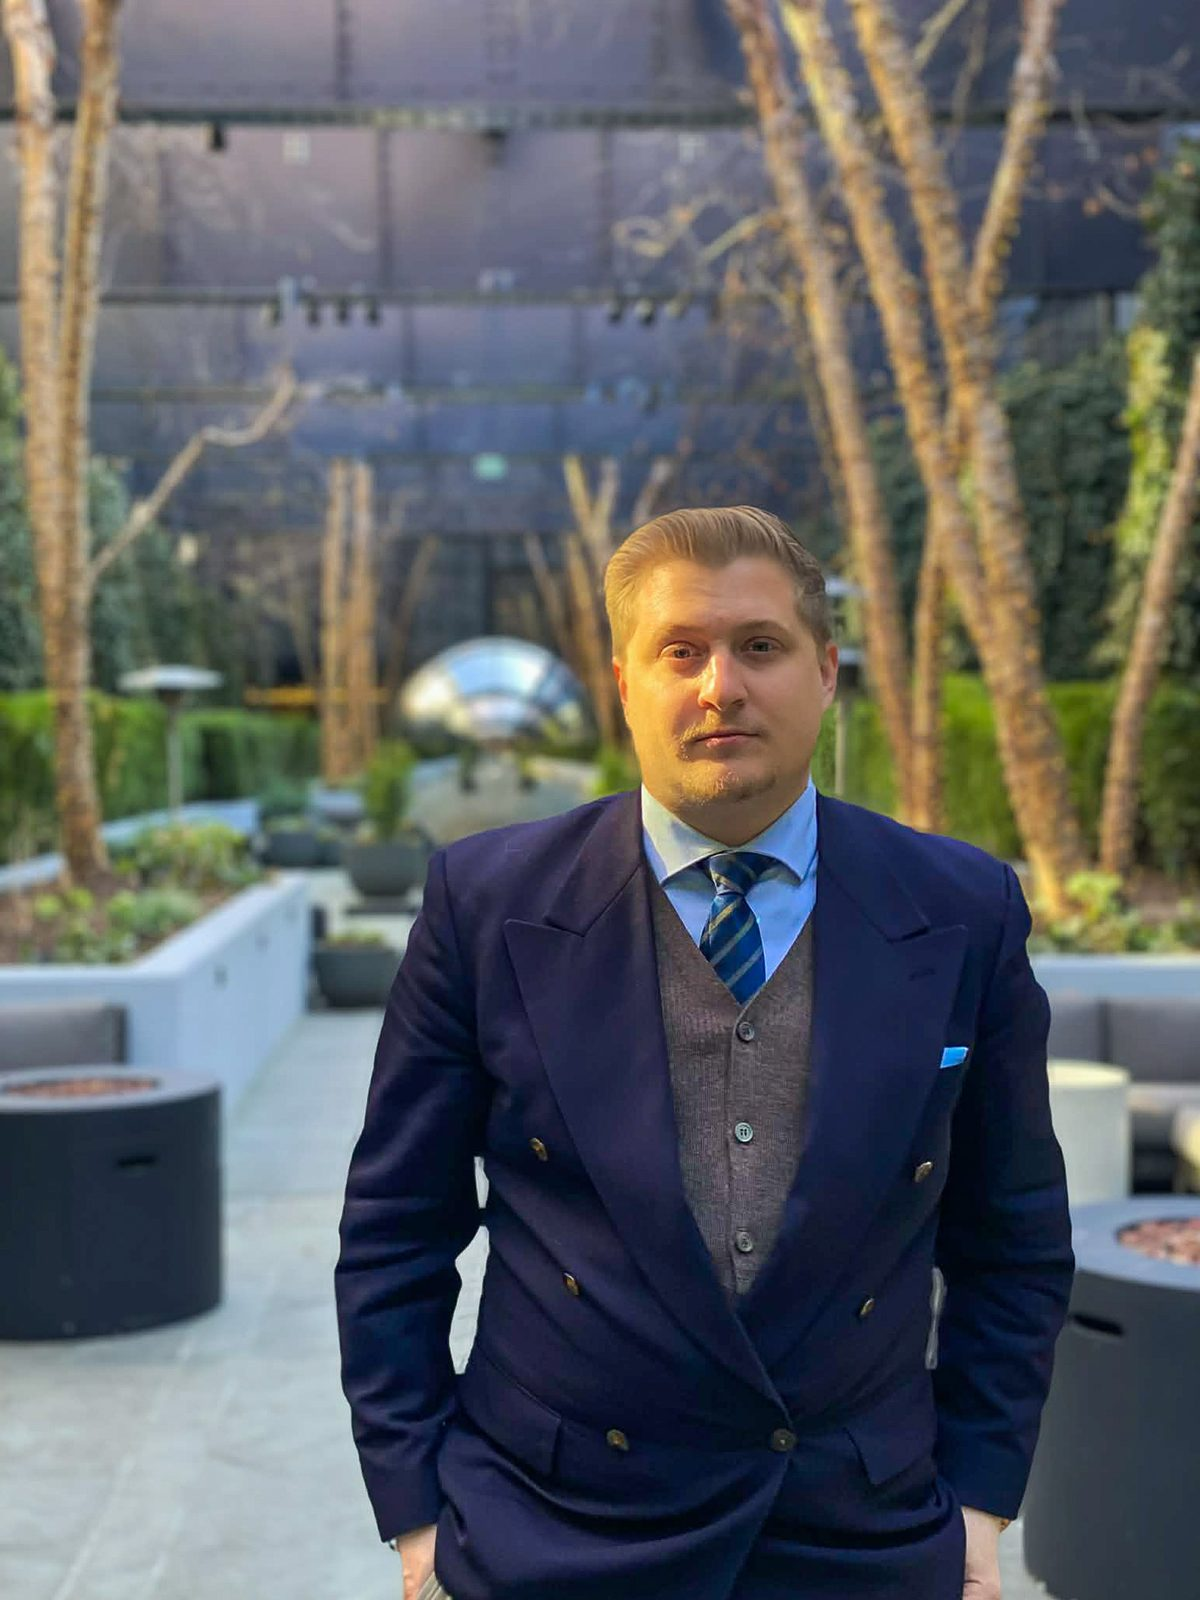
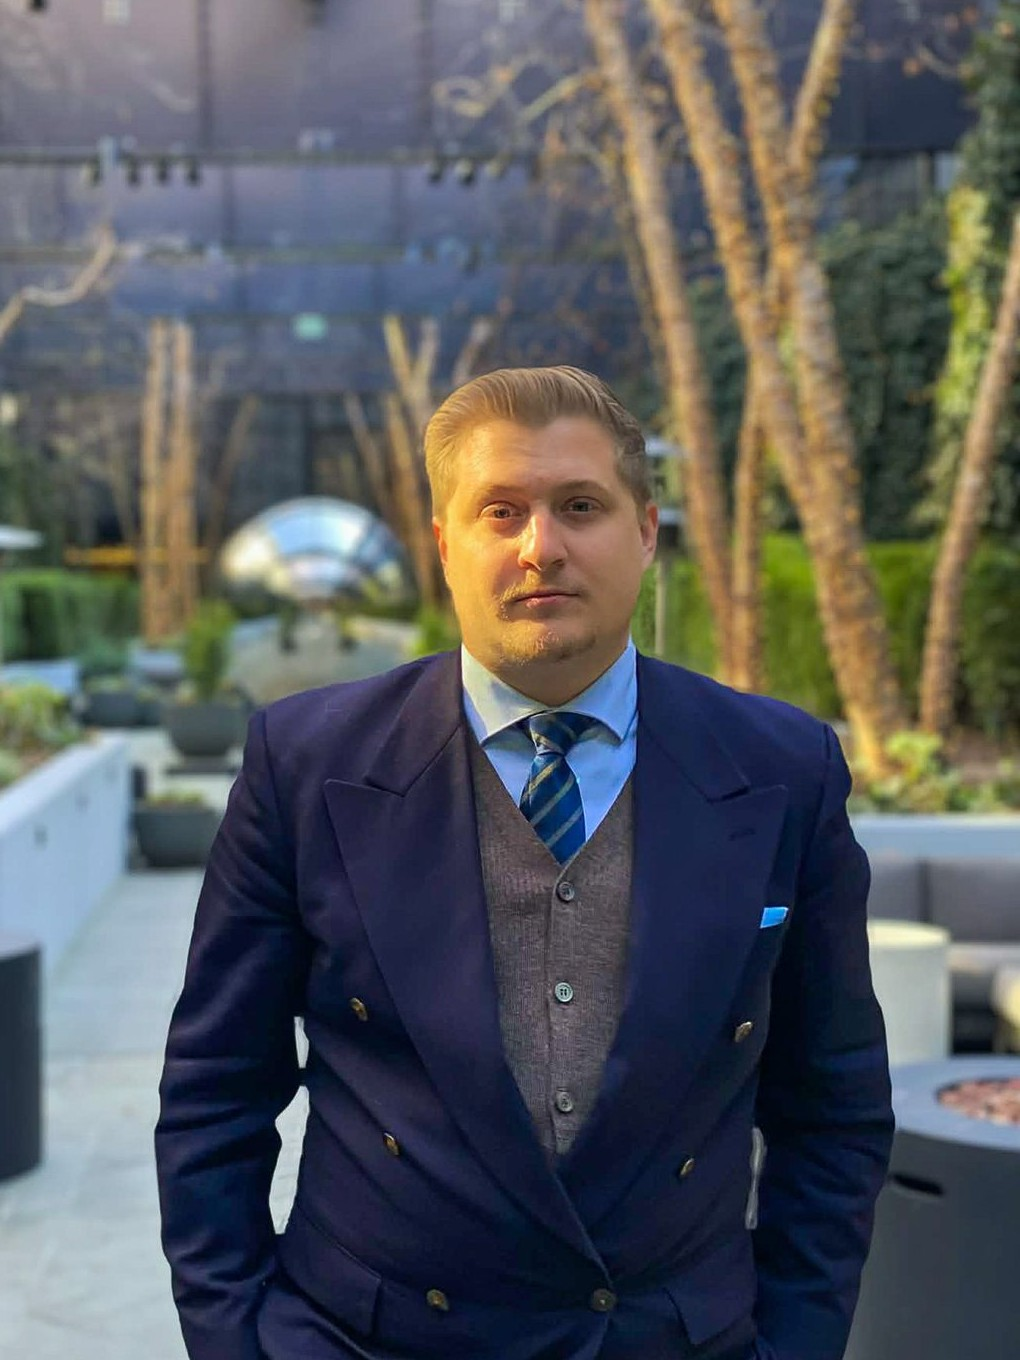
Dispatches read from tr-archive.json; archive script retries via r.jina.ai; About photo zoomed in
rss2json now sits behind a Cloudflare challenge, so the homepage feed
fell back to the plain link. The archive workflow had failed daily since
August because Substack blocks GitHub runners.

Claude-Session: https://claude.ai/code/session_01EKpusVqUuYe8LVjzqWMAQ1

diff --git a/about.html b/about.html
@@ -16,7 +16,7 @@
     <meta name="description" content="Andrew Likoudis is a Catholic scholar, editor, and consultant working in ressourcement theology, ecumenism, and Christian unity.">
     <meta name="keywords" content="Andrew Likoudis, Catholic scholar, Catholic editor, Faith in Crisis, Likoudis Legacy Foundation, ecumenism, Catholic consulting, Catholic writer">
     <meta name="viewport" content="width=device-width, initial-scale=1.0">
-    <title>About — Andrew Likoudis</title><link rel="preload" as="image" href="about-photo.jpg">
+    <title>About — Andrew Likoudis</title><link rel="preload" as="image" href="about-photo.jpg?v=2">
     <link href="https://fonts.googleapis.com/css2?family=Cormorant+Garamond:ital,wght@0,400;0,500;0,600;0,700;1,400;1,500&family=Libre+Baskerville:ital,wght@0,400;0,700;1,400&family=Lato:wght@300;400;500;600&display=swap" rel="stylesheet">
     <link rel="stylesheet" href="styles.css">
     <link rel="canonical" href="https://andrewlikoudis.com/about" />
@@ -56,7 +56,7 @@
     <!-- HOME -->
     <div id="page-about" class="page active">
         <section class="page-hero" style="background:linear-gradient(160deg,var(--ivory) 0%,#EDE4D5 60%,#E8DDD0 100%);padding-bottom:2rem"><div class="page-hero-content"><h1 class="section-title">Andrew Robert Likoudis</h1><p class="hero-greek">Ανδρέας Ροβέρτος Λυκούδης</p><div class="divider"></div><p style="font-family:'Lato',sans-serif;font-size:.7rem;letter-spacing:.18em;text-transform:uppercase;color:var(--text-light);text-align:center;margin-top:1rem;opacity:.7">Strategy · Editorial<br> Research · Communications</p></div></section>
-        <section style="padding:3.5rem 1.5rem"><div class="section-container"><div class="about-grid"><div style="text-align:center"><img decoding="async" src="about-photo.jpg" alt="Andrew Likoudis" class="about-image img-frame" loading="lazy"><p style="font-family:'Cormorant Garamond',serif;font-size:1rem;font-style:italic;color:var(--text-light);margin-top:.75rem">Catholic Scholar &amp; Consultant</p>
+        <section style="padding:3.5rem 1.5rem"><div class="section-container"><div class="about-grid"><div style="text-align:center"><img decoding="async" src="about-photo.jpg?v=2" alt="Andrew Likoudis" class="about-image img-frame" loading="lazy"><p style="font-family:'Cormorant Garamond',serif;font-size:1rem;font-style:italic;color:var(--text-light);margin-top:.75rem">Catholic Scholar &amp; Consultant</p>
 <a href="https://traditionandrenewal.substack.com" target="_blank" style="display:inline-block;margin-top:.6rem;font-family:'Lato',sans-serif;font-size:.75rem;color:var(--burgundy);text-decoration:none;letter-spacing:.03em;border:1px solid var(--burgundy);padding:.3rem .8rem;border-radius:3px;transition:all .2s" onmouseover="this.style.background='var(--burgundy)';this.style.color='#fff'" onmouseout="this.style.background='transparent';this.style.color='var(--burgundy)'">Follow My Writing →</a></div><div class="about-text"><div id="about-bio-preview" style="position:relative"><p><strong>Andrew Likoudis</strong> is a Catholic scholar, editor, and consultant whose interdisciplinary work spans ecclesiology, ecumenism, liturgy, and Catholic public life. He serves as Digital Editor of <em>Where Peter Is</em>. His research and writing address the intersection of tradition and reform in the contemporary Church.</p><p>His major scholarly project is <em>Faith in Crisis: Critical Dialogues in Catholic Traditionalism, Church Authority, and Reform</em>—a 40-chapter volume he organized and edited, coordinating 30+ contributors across three continents, with a foreword by Rocco Buttiglione. The work features chapters by <strong>Robert Cardinal Sarah</strong>, Mike Aquilina, Jimmy Akin, Timothy O'Malley, Rafael Luciani, and other leading theologians, with endorsements from Odilo Scherer, Cardinal Archbishop of São Paulo, Brazil, and Rodrigo Guerra, Secretary of the Pontifical Commission for Latin America. It carries an <strong>imprimatur from Archbishop William E. Lori</strong>. The book has been featured at <em>Where Peter Is</em>, Catholic Culture, and the Word on Fire Institute's journal <em>Evangelization &amp; Culture</em>, which praised it as &ldquo;an impressive labor of love.&rdquo;</p><p>He is also the author of <em>To His Face: Indefectibility and the Problem of Dissent</em> (En Route Books, 2026), with a foreword by Robert Fastiggi and an afterword by Emmett O'Regan. In all he has authored, edited, or compiled twelve volumes on Catholic ecclesiology and the papacy.</p><div id="about-bio-fade" style="position:absolute;bottom:0;left:0;right:0;height:80px;background:linear-gradient(to bottom,transparent,#F5F0E8);pointer-events:none"></div></div><div id="about-bio-full" style="display:none"><p>His recent editorial work includes the fiftieth-anniversary edition of Yves Congar's <em>Challenge to the Church: The Case of Archbishop Lefebvre</em> (En Route Books, 2026), which he edited and introduced, adding a foreword by Larry Chapp and an afterword by Andrew Mioni to Paul Inwood's 1977 translation&mdash;Congar's answer to the Lefebvre crisis, published on July 1, 2026, the day &Eacute;c&ocirc;ne proceeded to a second round of illicit episcopal consecrations.</p><p>He also prepared the third edition of James Likoudis's <em>Ending the Byzantine Greek Schism</em> (Emmaus Road / St. Paul Center, 2026), with a foreword by Scott Hahn&mdash;the first book of his grandfather's trilogy on Catholic-Orthodox reunion, now substantially revised and expanded.</p><p>As founder and chairman of the Likoudis Legacy Foundation, he built a 501(c)(3) research institute from the ground up, establishing its governance structures and recruiting a distinguished advisory council of theologians and scholars. He launched a fellows program and founded <em>The Kydones Review</em>, a peer-reviewed journal of which he serves as editor-in-chief; its first volume carries a foreword by Archbishop Flavio Pace, Secretary of the Dicastery for Promoting Christian Unity. He also established the LLF Reading Circle, a guided reading program led by Lizbeth Moncada Sandoval on classic and contemporary works in Catholic ecclesiology and ecumenism.</p><p>With the Orientale Lumen Foundation, he is co-founding the Orientale Lumen Institute to offer an accredited online graduate degree in ecumenism, as well as certificates and diplomas for clergy, religious, and laypeople engaged in Catholic-Orthodox dialogue. The two organizations joined the Washington Theological Consortium and the Huffington Ecumenical Institute in co-sponsoring the <a href="https://likoudislegacy.com/orientale-lumen" target="_blank" rel="noopener" style="color:inherit;text-decoration:underline;text-underline-offset:3px;"><em>Orientale Lumen Conference</em></a> in Washington, DC, July 13&ndash;15, 2026, gathering Catholic and Orthodox bishops, theologians, diocesan clergy, and laity for three days of dialogue toward Christian unity. Speakers included Cardinal Se&aacute;n O'Malley OFM Cap., Archbishop Flavio Pace, and Metropolitan Tikhon of the Orthodox Church in America.</p><p>His institutional experience includes three years on the Archdiocesan Lay Pastoral Council of Baltimore—the young adult representative on a 14-member council—one of four at-large, archdiocese-wide appointments—advising on institutional restructuring, strategic planning, and youth engagement. He has also supported a $5 million capital campaign at the Cathedral of Mary Our Queen, completed McKinsey and Co.'s Forward program (Oct.&ndash;Dec. 2025), held a Goldman Sachs 10,000 Small Businesses fellowship developing marketing strategy and client acquisition for a government contracting firm, and held a Johns Hopkins University fellowship producing policy memos and procurement research for a Bloomberg Philanthropies&ndash;backed workforce development initiative, in collaboration with Julep Consulting.</p><p>His communications work includes 60+ published articles in major Catholic outlets including the <em>National Catholic Register</em>, <em>Philosophy Now</em>, <em>Catholic Review</em>, <em>Fellowship &amp; Fairydust Magazine</em>, and <em>Where Peter Is</em>. He has conducted an exclusive interview with Archbishop Salvatore J. Cordileone on the topic of liturgy, and provided coverage of the USCCB General Assembly.</p>
 
                 <p>He has also begun assisting the Benedict XVI Institute, founded by Abp. Cordileone, in its work for liturgical renewal. This work builds on his writing on liturgy, which has addressed posture at Communion, sacred music, and the history of the post-conciliar reform.</p><p>Andrew is a dedicated parishioner at the Basilica of the National Shrine of the Assumption of the Blessed Virgin Mary—America's First Cathedral—where he worked with the rector to obtain first-class relics of Pope Saint John Paul II from Rome and Saint Mother Teresa of Calcutta from the Missionaries of Charity, for the Basilica's perpetual adoration chapel and its street-mission program, Source of All Hope. He previously served as an altar server, lector, and member of the polyphony and Gregorian chant <em>schola cantorum</em>, and has also sung with the Gregorian chant <em>schola</em> at the National Shrine of St. Alphonsus.</p><p>Beyond the academy, Andrew draws on a decade of hospitality experience—a vocation the Scriptures count among the charisms (Rom 12:13; Heb 13:2). He has welcomed hundreds of guests as an Airbnb Superhost and served at Charleston, one of OpenTable's Top 10 restaurants in America. He is also media and outreach coordinator for DC Social Collective, which runs the DMV's biggest nights out for young adults and draws about 6,000 guests a year. He enjoys kayaking, bachata, tennis, and chess.</p></div><p style="margin-top:.75rem;text-align:left"><a id="about-bio-toggle" href="javascript:void(0)" onclick="var full=document.getElementById('about-bio-full');var fade=document.getElementById('about-bio-fade');var lnk=document.getElementById('about-bio-toggle');if(full.style.display==='none'){full.style.display='block';fade.style.display='none';lnk.textContent='Read less ↑'}else{full.style.display='none';fade.style.display='block';lnk.textContent='Continue reading →'}" style="font-family:'Lato',sans-serif;font-size:.78rem;font-weight:600;color:var(--burgundy);text-decoration:none;letter-spacing:.02em;border-bottom:1px solid rgba(184,134,11,.3);padding-bottom:.1rem;transition:border-color .2s">Continue reading →</a></p></div></div></div></section>

diff --git a/index.html b/index.html
@@ -335,23 +335,21 @@ if(slides.length>1)setInterval(()=>{goToSlide((currentSlide+1)%slides.length)},1
 (function(){
   var host=document.getElementById('substack-feed');
   if(!host)return;
-  var FEED=host.getAttribute('data-feed')||'https://traditionandrenewal.substack.com/feed';
-  var URL='https://api.rss2json.com/v1/api.json?rss_url='+encodeURIComponent(FEED);
   function esc(s){return String(s).replace(/&/g,'&amp;').replace(/</g,'&lt;').replace(/>/g,'&gt;');}
   function escAttr(s){return esc(s).replace(/"/g,'&quot;');}
-  function strip(h){var d=document.createElement('div');d.innerHTML=h;return (d.textContent||d.innerText||'').replace(/\s+/g,' ').trim();}
-  function decodeEnt(s){var t=document.createElement('textarea');t.innerHTML=String(s);return t.value.replace(/\s+/g,' ').trim();}
-  function card(item){
-    var date=new Date(item.pubDate);
+  function card(e){
+    var date=new Date((e.date||'')+'T12:00:00');
     var ds=isNaN(date)?'':date.toLocaleDateString('en-US',{year:'numeric',month:'short',day:'numeric'});
-    var sn=strip(item.description||item.content||'');
+    var sn=String(e.excerpt||'');
     if(sn.length>180)sn=sn.slice(0,180).replace(/\s+\S*$/,'')+'\u2026';
-    var link=item.link||'#';
-    return '<article class="dispatch-card"><p class="d-date">'+esc(ds)+'</p><h3 class="d-title"><a href="'+escAttr(link)+'" target="_blank" rel="noopener">'+esc(decodeEnt(item.title||'Untitled'))+'</a></h3><p class="d-snippet">'+esc(sn)+'</p><a href="'+escAttr(link)+'" target="_blank" rel="noopener" class="d-readmore">Read &rarr;</a></article>';
+    var link=e.url||'https://traditionandrenewal.substack.com';
+    return '<article class="dispatch-card"><p class="d-date">'+esc(ds)+'</p><h3 class="d-title"><a href="'+escAttr(link)+'" target="_blank" rel="noopener">'+esc(e.title||'Untitled')+'</a></h3><p class="d-snippet">'+esc(sn)+'</p><a href="'+escAttr(link)+'" target="_blank" rel="noopener" class="d-readmore">Read &rarr;</a></article>';
   }
-  fetch(URL).then(function(r){if(!r.ok)throw 0;return r.json();}).then(function(data){
-    if(!data||data.status!=='ok'||!Array.isArray(data.items)||!data.items.length)throw 0;
-    host.innerHTML=data.items.slice(0,3).map(card).join('');
+  fetch('/tr-archive.json',{cache:'no-cache'}).then(function(r){if(!r.ok)throw 0;return r.json();}).then(function(data){
+    var items=(data&&data.entries||[]).filter(function(e){return /substack\.com/.test(e.url||'')||e.venue==='Tradition & Renewal';});
+    items.sort(function(a,b){return (b.date||'').localeCompare(a.date||'');});
+    if(!items.length)throw 0;
+    host.innerHTML=items.slice(0,3).map(card).join('');
   }).catch(function(){
     host.innerHTML='<div class="dispatch-card" style="grid-column:1/-1;text-align:center;min-height:0"><p class="d-snippet" style="margin:0">The latest essays live at <a href="https://traditionandrenewal.substack.com" style="color:var(--gold)">traditionandrenewal.substack.com</a>.</p></div>';
   });

diff --git a/build-tr-archive.py b/build-tr-archive.py
@@ -9,11 +9,31 @@ Substack's RSS feed only exposes the 20 most recent posts, so anything older
 disappears from the feed permanently. This keeps a durable, version-controlled
 copy. Run daily by .github/workflows/tr-archive.yml.
 """
-import json, re, html, sys, urllib.request
+import json, re, html, sys, urllib.request, urllib.error
 from datetime import datetime, timezone
 
 API = "https://traditionandrenewal.substack.com/api/v1/archive?sort=new&limit=50&offset="
 PATH = "tr-archive.json"
+
+HEADERS = {
+    "User-Agent": "Mozilla/5.0 (Macintosh; Intel Mac OS X 10_15_7) AppleWebKit/537.36 "
+                  "(KHTML, like Gecko) Chrome/129.0 Safari/537.36",
+    "Accept": "application/json, */*",
+}
+
+def fetch(url):
+    """Try Substack directly. It blocks GitHub's runners (403), so on a block
+    retry through the r.jina.ai reader, which returns the raw response body."""
+    try:
+        with urllib.request.urlopen(urllib.request.Request(url, headers=HEADERS), timeout=30) as r:
+            return r.read()
+    except urllib.error.HTTPError as e:
+        if e.code not in (403, 429):
+            raise
+        print(f"direct fetch got {e.code}, retrying via r.jina.ai")
+    req = urllib.request.Request("https://r.jina.ai/" + url, headers={"X-Return-Format": "text"})
+    with urllib.request.urlopen(req, timeout=60) as r:
+        return r.read()
 
 def _norm(t):
     return re.sub(r"[^a-z0-9]+", "", (t or "").lower())
@@ -26,15 +46,18 @@ def clean(s, n=280):
 
 def main():
     posts, offset = [], 0
-    while True:
-        req = urllib.request.Request(API + str(offset), headers={"User-Agent": "tr-archive/1.0"})
-        batch = json.load(urllib.request.urlopen(req, timeout=30))
-        if not batch:
-            break
-        posts += batch
-        offset += 50
-        if len(batch) < 50:
-            break
+    try:
+        while True:
+            batch = json.loads(fetch(API + str(offset)))
+            if not batch:
+                break
+            posts += batch
+            offset += len(batch)   # Substack may return fewer than the limit per page
+            if offset > 2000:
+                break
+    except Exception as e:
+        print(f"could not reach Substack ({e}); archive left as is")
+        return 0
 
     data = json.load(open(PATH, encoding="utf-8"))
     entries = data["entries"]
